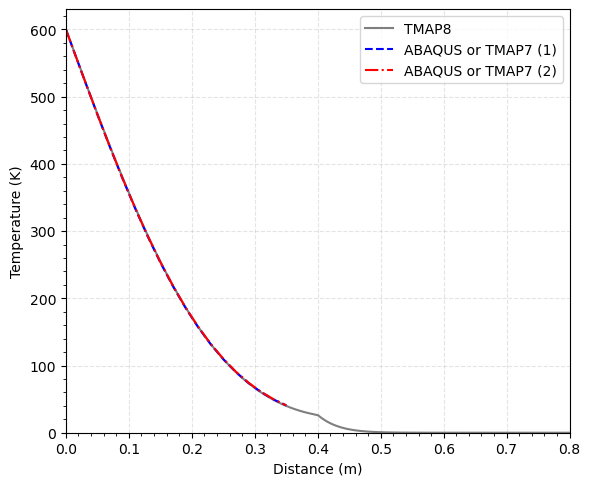
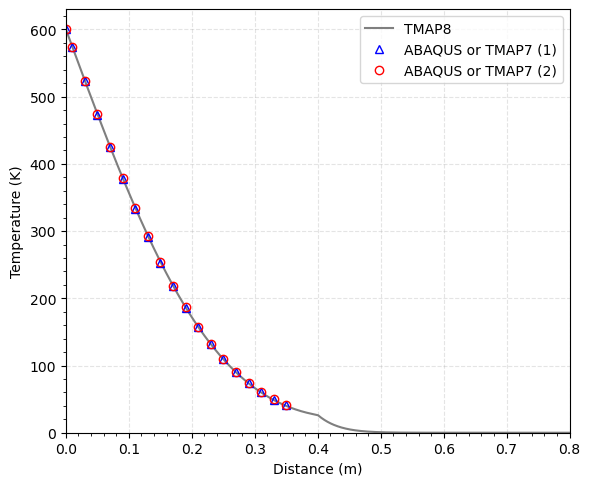
Update script to make figures to show markers rather than lines when data is discrete.

diff --git a/test/tests/ver-1fc/comparison_ver-1fc.py b/test/tests/ver-1fc/comparison_ver-1fc.py
@@ -93,8 +93,8 @@ fig = plt.figure(figsize=[6.5, 5.5])
 gs = gridspec.GridSpec(1, 1)
 ax = fig.add_subplot(gs[0])
 ax.plot(tmap8_sol_transient_x,tmap8_sol_transient_temperature,label=r"TMAP8",c='tab:gray')
-ax.plot(abaqus_sol_transient_x,abaqus_sol_transient_temperature_1,label=r"ABAQUS or TMAP7 (1)",c='b', linestyle='--')
-ax.plot(abaqus_sol_transient_x,abaqus_sol_transient_temperature_2,label=r"ABAQUS or TMAP7 (2)",c='r', linestyle='-.')
+ax.plot(abaqus_sol_transient_x,abaqus_sol_transient_temperature_1,'b^',label=r"ABAQUS or TMAP7 (1)",mfc='none')
+ax.plot(abaqus_sol_transient_x,abaqus_sol_transient_temperature_2,'ro',label=r"ABAQUS or TMAP7 (2)",mfc='none')
 ax.set_xlabel(u'Distance (m)')
 ax.set_ylabel(r"Temperature (K)")
 ax.legend(loc="best")
@@ -113,8 +113,8 @@ fig = plt.figure(figsize=[6.5, 5.5])
 gs = gridspec.GridSpec(1, 1)
 ax = fig.add_subplot(gs[0])
 ax.plot(tmap8_sol_transient_t,tmap8_sol_transient_temperature_at_x,label=r"TMAP8",c='tab:gray')
-ax.plot(abaqus_sol_transient_t,abaqus_sol_transient_temperature_at_x,label=r"ABAQUS)",c='b', linestyle='--')
-ax.plot(abaqus_sol_transient_t,tmap7_sol_transient_temperature_at_x,label=r"TMAP7",c='r', linestyle='-.')
+ax.plot(abaqus_sol_transient_t,abaqus_sol_transient_temperature_at_x,'b^',label=r"ABAQUS)",mfc='none')
+ax.plot(abaqus_sol_transient_t,tmap7_sol_transient_temperature_at_x,'ro',label=r"TMAP7",mfc='none')
 ax.set_xlabel(u'Distance (m)')
 ax.set_ylabel(r"Temperature (K)")
 ax.legend(loc="best")
